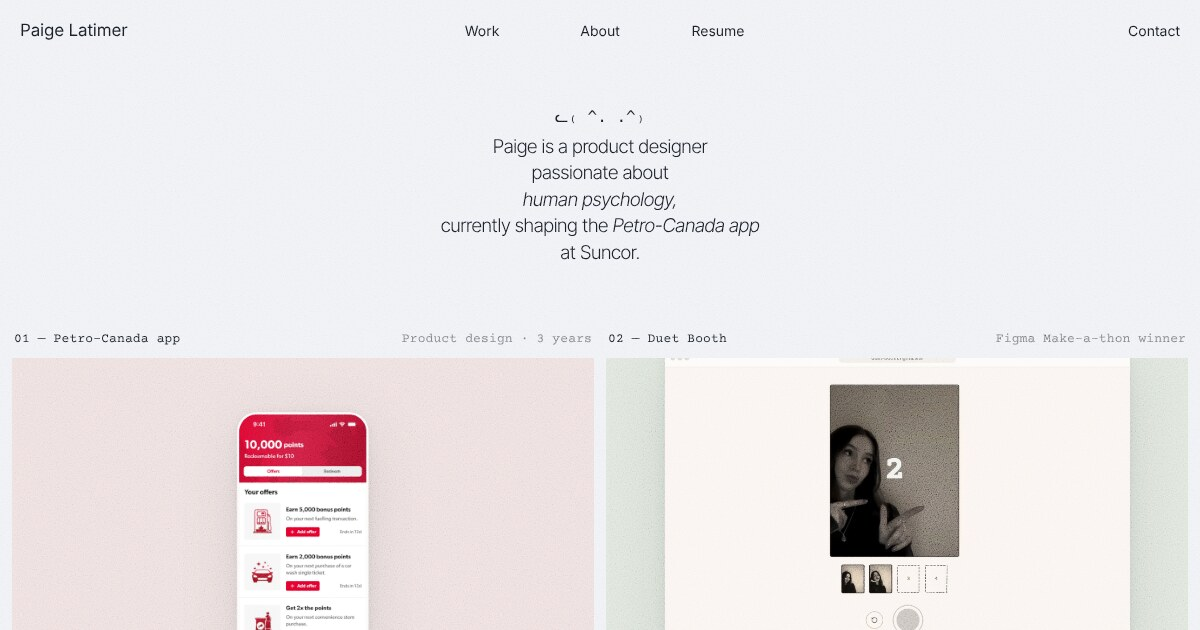
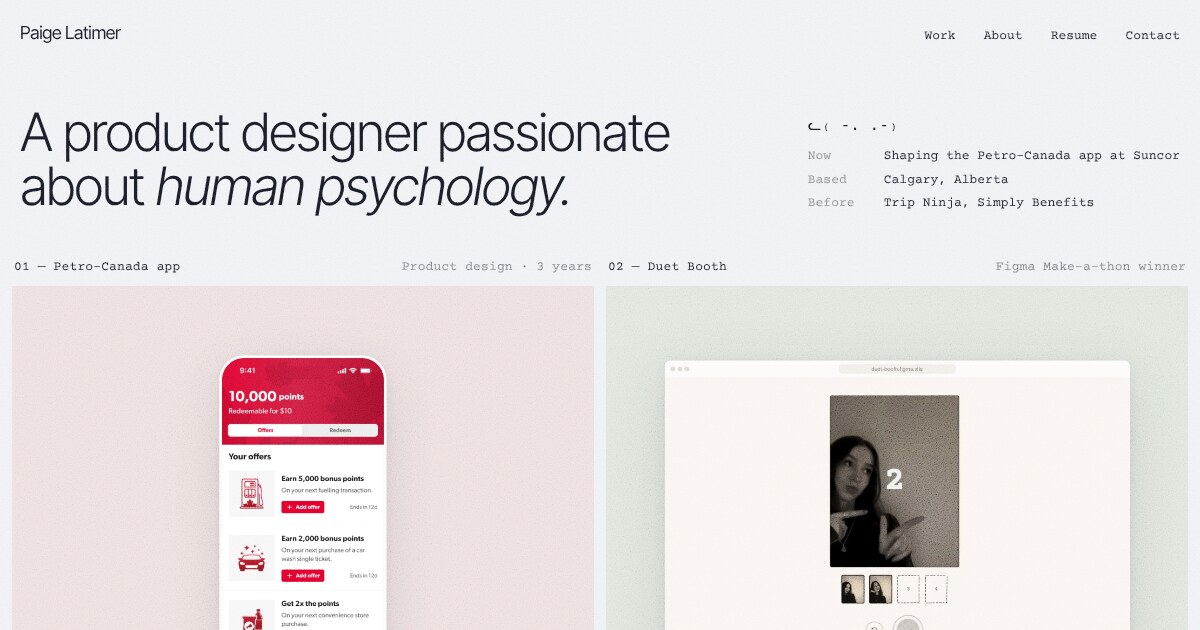
Editorial intro and a nav in the same voice
The homepage opens with one large statement on the left and short facts
(now, based, before) in the typewriter face on the right. The nav moves
to name-left, links-right with the links in Courier Prime, loaded from
the shared stylesheet so every page matches.

Claude-Session: https://claude.ai/code/session_01LVFAFj7EPf4VzMPLLNaaoo

diff --git a/css/redesign.css b/css/redesign.css
@@ -1,3 +1,5 @@
+@import url('https://fonts.googleapis.com/css2?family=Courier+Prime&display=swap');
+
 /* ============================================
    Portfolio redesign — shared styles: nav, home page, cursor
    Source: Figma "Untitled" — node 26:179
@@ -41,46 +43,41 @@ body.redesign::after {
     }
 }
 
-/* NAV */
+/* NAV: your name on the left in the display face; the links on the right in the
+   typewriter face, the same voice as the project labels and the facts. */
 
 .rd-nav {
-    display: grid;
-    grid-template-columns: 1fr auto 1fr;
+    display: flex;
     align-items: baseline;
-    padding: 20px var(--rd-gutter) 0;
+    gap: 28px;
+    padding: 22px var(--rd-gutter) 0;
 }
 
 .rd-nav__logo {
-    justify-self: start;
-    font-family: 'Inter', sans-serif;
+    margin-right: auto;
+    font-family: 'Inter Tight', 'Inter', sans-serif;
     font-weight: 400;
-    font-size: 17px;
-    letter-spacing: -0.01em;
+    font-size: 18px;
+    letter-spacing: -0.02em;
     color: var(--rd-text);
     text-decoration: none;
 }
 
-/* Equal-width columns so About sits dead centre, whatever the word lengths. */
 .rd-nav__links {
-    display: grid;
-    grid-template-columns: repeat(3, 118px);
+    display: flex;
+    gap: 28px;
     list-style: none;
     margin: 0;
     padding: 0;
-    text-align: center;
 }
 
 .rd-nav__links a,
 .rd-nav__contact {
-    font-family: 'Inter', sans-serif;
+    font-family: 'Courier Prime', 'Courier New', monospace;
     font-weight: 400;
-    font-size: 14px;
+    font-size: 13px;
     color: var(--rd-text);
     text-decoration: none;
-}
-
-.rd-nav__contact {
-    justify-self: end;
 }
 
 .rd-nav__links a:hover,
@@ -100,29 +97,59 @@ body.redesign::after {
 
 .rd-hero {
     flex: none;
-    padding: clamp(40px, 10vh, 120px) 0;
+    display: grid;
+    grid-template-columns: minmax(0, 1fr) auto;
+    align-items: end;
+    gap: 24px 64px;
+    padding: clamp(40px, 10vh, 112px) var(--rd-gutter) clamp(36px, 7vh, 72px);
 }
 
-/* Lines are broken by hand in the markup; the max-width only stops runaway lines. */
-.rd-hero__intro {
-    max-width: 30em;
-    margin: 0 auto;
-    text-align: center;
+/* the one loud thing on the page */
+.rd-hero__title {
+    max-width: 13em;
+    margin: 0;
     font-family: 'Inter Tight', 'Inter', sans-serif;
-    font-size: 19px;
     font-weight: 300;
-    letter-spacing: -0.02em;
-    line-height: 1.4;
+    font-size: clamp(34px, 4.4vw, 64px);
+    letter-spacing: -0.035em;
+    line-height: 1.02;
     color: var(--rd-text);
 }
 
-.rd-hero__intro .kaomoji {
-    display: block;
-    margin-bottom: 4px;
+.rd-hero__title em {
+    font-style: italic;
 }
 
-.rd-hero__intro p {
+/* the short facts, in the typewriter face */
+.rd-hero__facts {
     margin: 0;
+    font-family: 'Courier Prime', 'Courier New', monospace;
+    font-size: 13px;
+    line-height: 1.5;
+}
+
+.rd-hero__facts > div {
+    display: grid;
+    grid-template-columns: 64px auto;
+    gap: 12px;
+}
+
+.rd-hero__facts > div + div {
+    margin-top: 4px;
+}
+
+.rd-hero__facts dt {
+    color: var(--rd-text);
+    opacity: 0.5;
+}
+
+.rd-hero__facts dd {
+    margin: 0;
+}
+
+.rd-hero__facts .rd-hero__cat {
+    display: block;
+    margin-bottom: 10px;
 }
 
 /* WORK */
@@ -459,18 +486,21 @@ html.js .rd-reveal.is-visible {
     :root {
         --rd-gutter: 16px;
     }
+    .rd-hero {
+        grid-template-columns: minmax(0, 1fr);
+        align-items: start;
+    }
+    /* phones: name on its own line, the links in a row beneath it */
     .rd-nav {
-        grid-template-columns: 1fr auto;
-        row-gap: 16px;
+        flex-wrap: wrap;
+        row-gap: 10px;
+        column-gap: 22px;
         padding-top: 16px;
     }
-    .rd-nav__links {
-        grid-column: 1 / -1;
-        grid-row: 2;
-        justify-self: center;
-        grid-template-columns: repeat(3, 84px);
+    .rd-nav__logo {
+        flex-basis: 100%;
     }
-    .rd-hero__intro {
-        padding: 0 24px;
+    .rd-nav__links {
+        gap: 22px;
     }
 }

diff --git a/index.html b/index.html
@@ -55,17 +55,17 @@
              under the tag home-collage. -->
         <div class="rd-first-screen">
 
-        <!-- HERO -->
+        <!-- HERO: one big statement on the left, the short facts on the right -->
         <section class="rd-hero">
 
-            <div class="rd-hero__intro rd-anim" style="--rd-delay: 120ms">
-                <span class="kaomoji"><span class="rd-cat rd-cat--inline rd-cat--hero" style="--cat-color:#191d27"><span class="rd-cat__inner" data-face="ᓚ₍ ^. .^₎" data-fed="ᓚ₍ ^ω^₎" data-blink="ᓚ₍ -. .-₎">ᓚ₍ ^. .^₎</span></span></span>
-                <p>Paige is a product designer<br>
-                    passionate about<br>
-                    <em>human psychology,</em><br>
-                    currently shaping the <em>Petro-Canada app</em><br>
-                    at Suncor.</p>
-            </div>
+            <h1 class="rd-hero__title rd-anim" style="--rd-delay: 120ms">A product designer passionate about <em>human psychology.</em></h1>
+
+            <dl class="rd-hero__facts rd-anim" style="--rd-delay: 200ms">
+                <div class="rd-hero__cat"><span class="rd-cat rd-cat--inline rd-cat--hero" style="--cat-color:#191d27"><span class="rd-cat__inner" data-face="ᓚ₍ ^. .^₎" data-fed="ᓚ₍ ^ω^₎" data-blink="ᓚ₍ -. .-₎">ᓚ₍ ^. .^₎</span></span></div>
+                <div><dt>Now</dt><dd>Shaping the Petro-Canada app at Suncor</dd></div>
+                <div><dt>Based</dt><dd>Calgary, Alberta</dd></div>
+                <div><dt>Before</dt><dd>Trip Ninja, Simply Benefits</dd></div>
+            </dl>
 
         </section>
 
